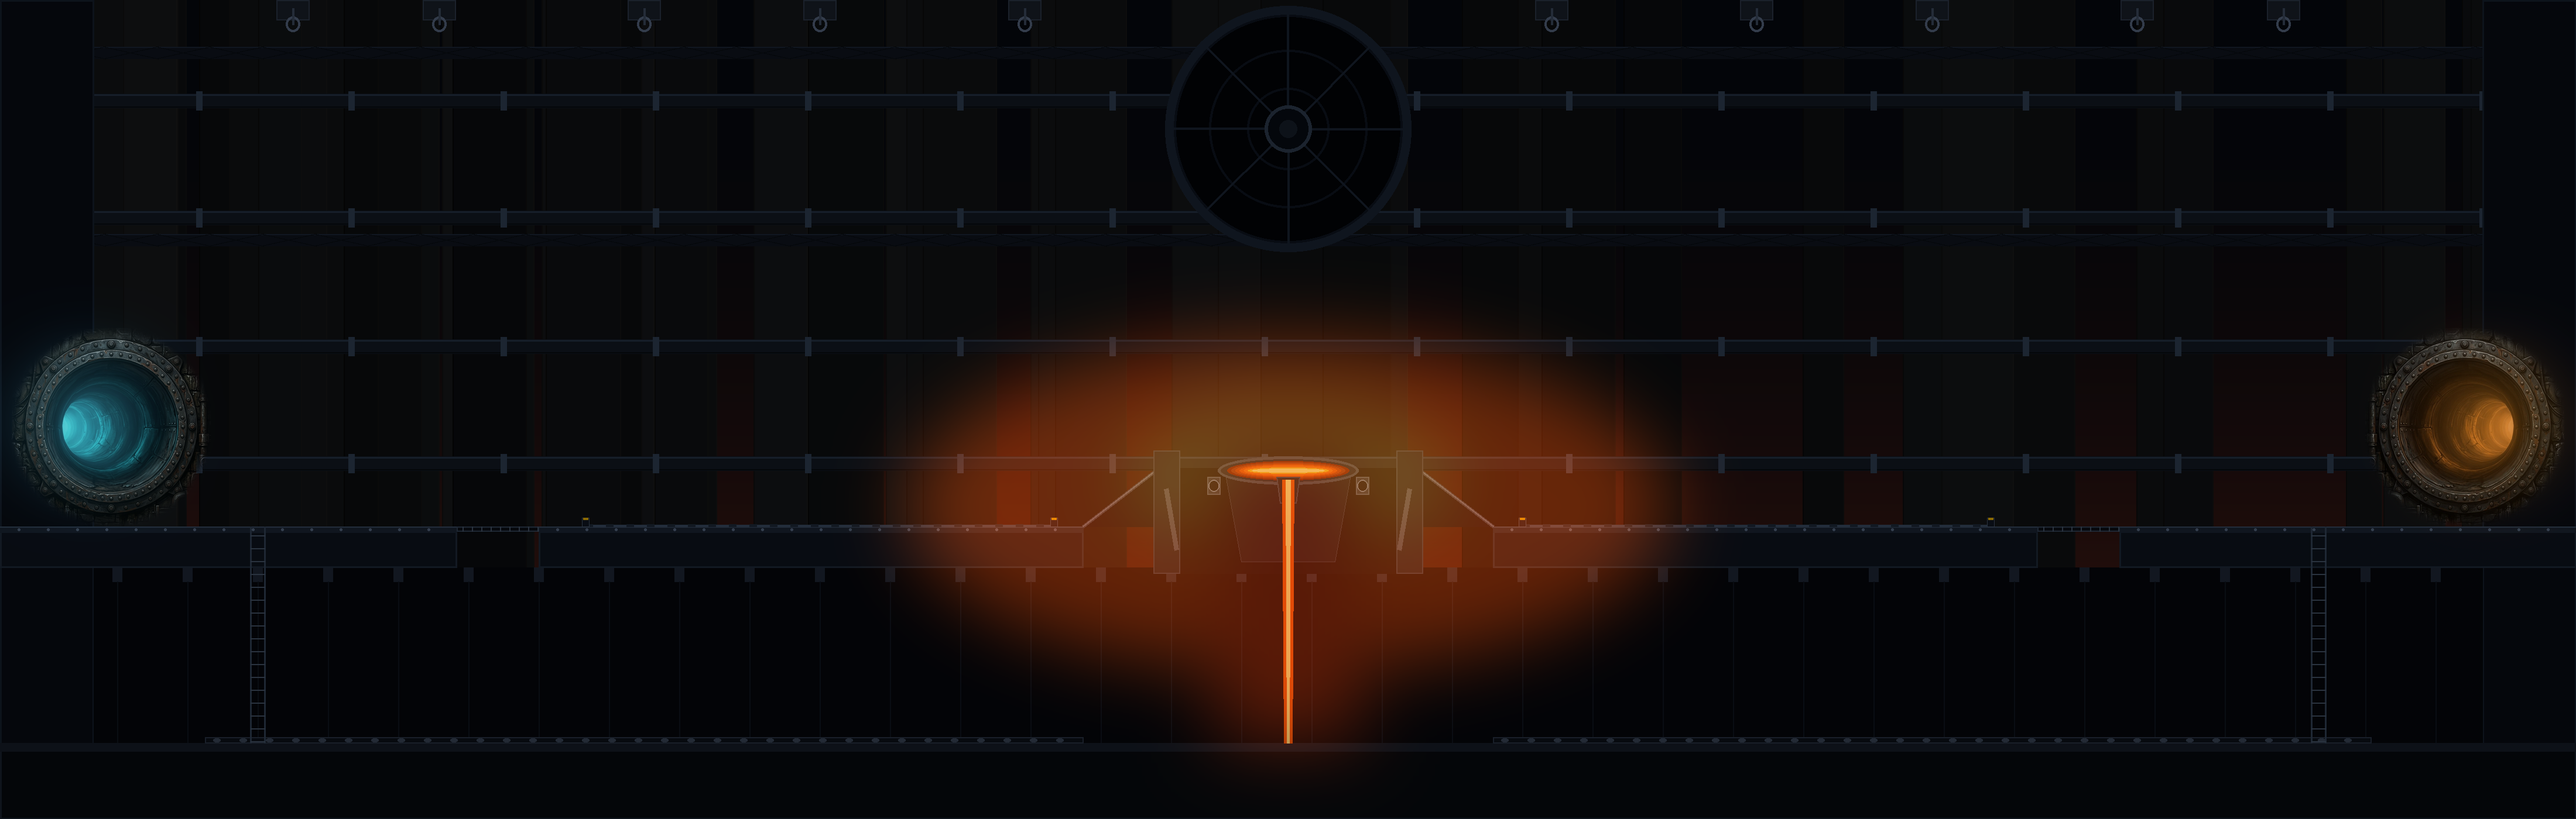
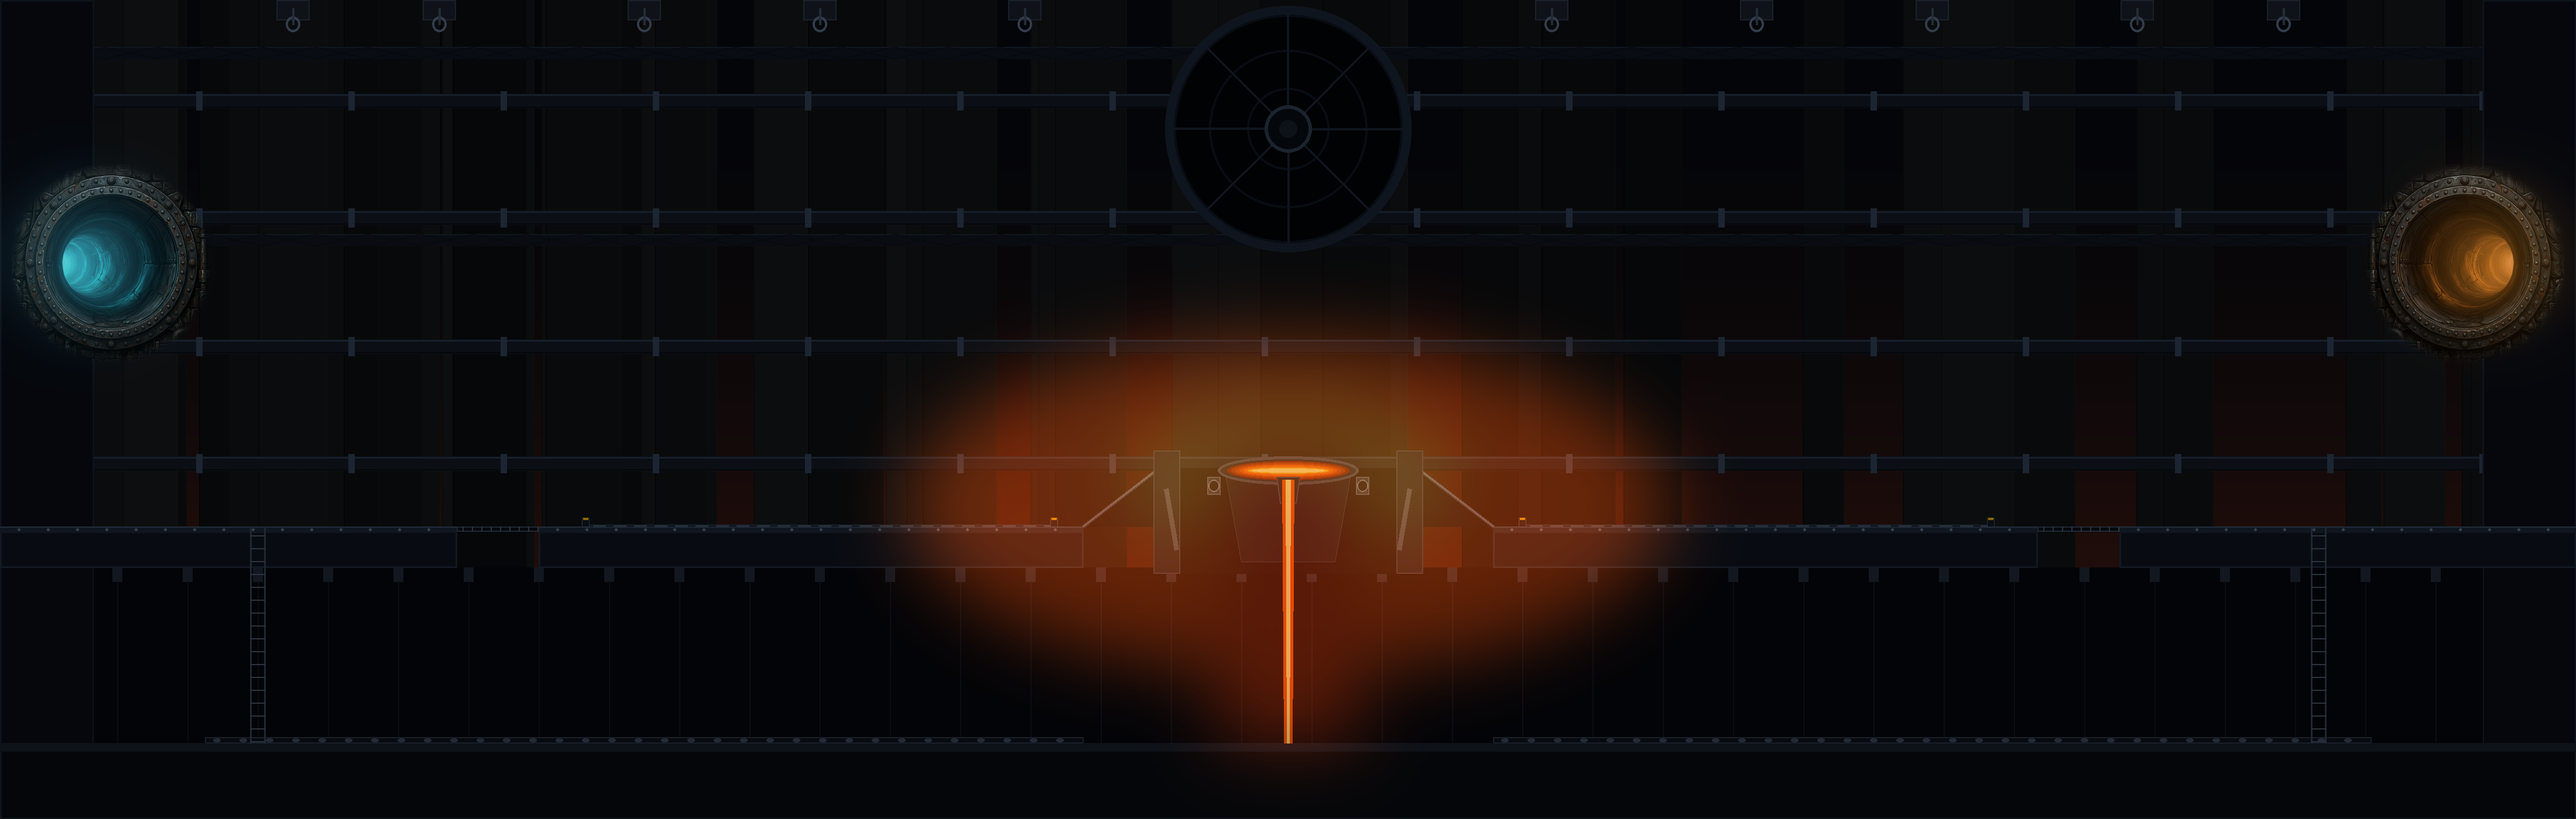
Center Arena 3 goals vertically between ceiling and main platform (Y=450)

Changed region(s): [[0.0, 0.215, 0.0934, 0.6143], [0.903, 0.1843, 0.9964, 0.6143]]

diff --git a/js/arenas/arena3.js b/js/arenas/arena3.js
@@ -88,28 +88,28 @@ export const ARENA_3_CUSTOM_OBJECTS = [
     id: 'goal_cyan',
     team: 'CYAN',
     x: 20,
-    y: 560,
+    y: 280,
     w: 340,
     h: 340,
     facing: 1,
     color: '#06b6d4',
     glowColor: 'rgba(6, 182, 212, 0.85)',
     holeCx: 190,
-    holeCy: 730,
+    holeCy: 450,
     holeR: 170
   },
   {
     id: 'goal_orange',
     team: 'ORANGE',
     x: 4040,
-    y: 560,
+    y: 280,
     w: 340,
     h: 340,
     facing: -1,
     color: '#f97316',
     glowColor: 'rgba(249, 115, 22, 0.85)',
     holeCx: 4210,
-    holeCy: 730,
+    holeCy: 450,
     holeR: 170
   }
 ];
@@ -143,35 +143,35 @@ export function drawArena3Background(ctx, camera) {
   // Bramka Cyan (lewa) - odbicie lustrzane w osi poziomej dla pełnej symetrii osiowej z bramką Orange
   if (holeCyanImg && holeCyanImg.complete && holeCyanImg.naturalWidth > 0) {
     ctx.save();
-    ctx.translate(20 + 340, 560);
+    ctx.translate(20 + 340, 280);
     ctx.scale(-1, 1);
     ctx.drawImage(holeCyanImg, 0, 0, 340, 340);
     ctx.restore();
   }
   // Bramka Orange (prawa) - naturalny zwrot tunelu w głąb prawej ściany
   if (holeOrangeImg && holeOrangeImg.complete && holeOrangeImg.naturalWidth > 0) {
-    ctx.drawImage(holeOrangeImg, 4040, 560, 340, 340);
+    ctx.drawImage(holeOrangeImg, 4040, 280, 340, 340);
   }
 
-  // Subtelna poświata głębi kanałów bramek
+  // Subtelna poświata głębi kanałów bramek (centralna wysokość Y = 450)
   ctx.save();
   ctx.globalCompositeOperation = 'lighter';
-  const cyanGlow = ctx.createRadialGradient(190, 730, 20, 190, 730, 180);
+  const cyanGlow = ctx.createRadialGradient(190, 450, 20, 190, 450, 180);
   cyanGlow.addColorStop(0.0, 'rgba(6, 182, 212, 0.35)');
   cyanGlow.addColorStop(0.6, 'rgba(6, 182, 212, 0.12)');
   cyanGlow.addColorStop(1.0, 'rgba(0, 0, 0, 0)');
   ctx.fillStyle = cyanGlow;
   ctx.beginPath();
-  ctx.arc(190, 730, 180, 0, Math.PI * 2);
+  ctx.arc(190, 450, 180, 0, Math.PI * 2);
   ctx.fill();
 
-  const orangeGlow = ctx.createRadialGradient(4210, 730, 20, 4210, 730, 180);
+  const orangeGlow = ctx.createRadialGradient(4210, 450, 20, 4210, 450, 180);
   orangeGlow.addColorStop(0.0, 'rgba(249, 115, 22, 0.35)');
   orangeGlow.addColorStop(0.6, 'rgba(249, 115, 22, 0.12)');
   orangeGlow.addColorStop(1.0, 'rgba(0, 0, 0, 0)');
   ctx.fillStyle = orangeGlow;
   ctx.beginPath();
-  ctx.arc(4210, 730, 180, 0, Math.PI * 2);
+  ctx.arc(4210, 450, 180, 0, Math.PI * 2);
   ctx.fill();
   ctx.restore();
 

diff --git a/generate_foundry_bg.py b/generate_foundry_bg.py
@@ -173,7 +173,7 @@ circle_cyan = make_circular_conduit('assets/hole_cyan.jpg', r_outer=425, feather
 circle_orange = make_circular_conduit('assets/hole_orange.jpg', r_outer=425, feather=14, rotate_deg=0)
 
 HOLE_DIAMETER = 340
-HOLE_Y = Y_MAIN - HOLE_DIAMETER  # 900 - 340 = 560
+HOLE_Y = (Y_MAIN - HOLE_DIAMETER) // 2  # (900 - 340) // 2 = 280 (centralnie między sufitem Y=0 a płytą Y=900)
 
 scaled_cyan_hole = circle_cyan.resize((HOLE_DIAMETER, HOLE_DIAMETER), Image.Resampling.LANCZOS)
 scaled_orange_hole = circle_orange.resize((HOLE_DIAMETER, HOLE_DIAMETER), Image.Resampling.LANCZOS)

diff --git a/make_bg.py b/make_bg.py
@@ -172,7 +172,7 @@ circle_cyan = make_circular_conduit('assets/hole_cyan.jpg', r_outer=425, feather
 circle_orange = make_circular_conduit('assets/hole_orange.jpg', r_outer=425, feather=14, rotate_deg=0)
 
 HOLE_DIAMETER = 340
-HOLE_Y = Y_MAIN - HOLE_DIAMETER  # 900 - 340 = 560
+HOLE_Y = (Y_MAIN - HOLE_DIAMETER) // 2  # (900 - 340) // 2 = 280 (centralnie między sufitem Y=0 a płytą Y=900)
 
 scaled_cyan_hole = circle_cyan.resize((HOLE_DIAMETER, HOLE_DIAMETER), Image.Resampling.LANCZOS)
 scaled_orange_hole = circle_orange.resize((HOLE_DIAMETER, HOLE_DIAMETER), Image.Resampling.LANCZOS)
